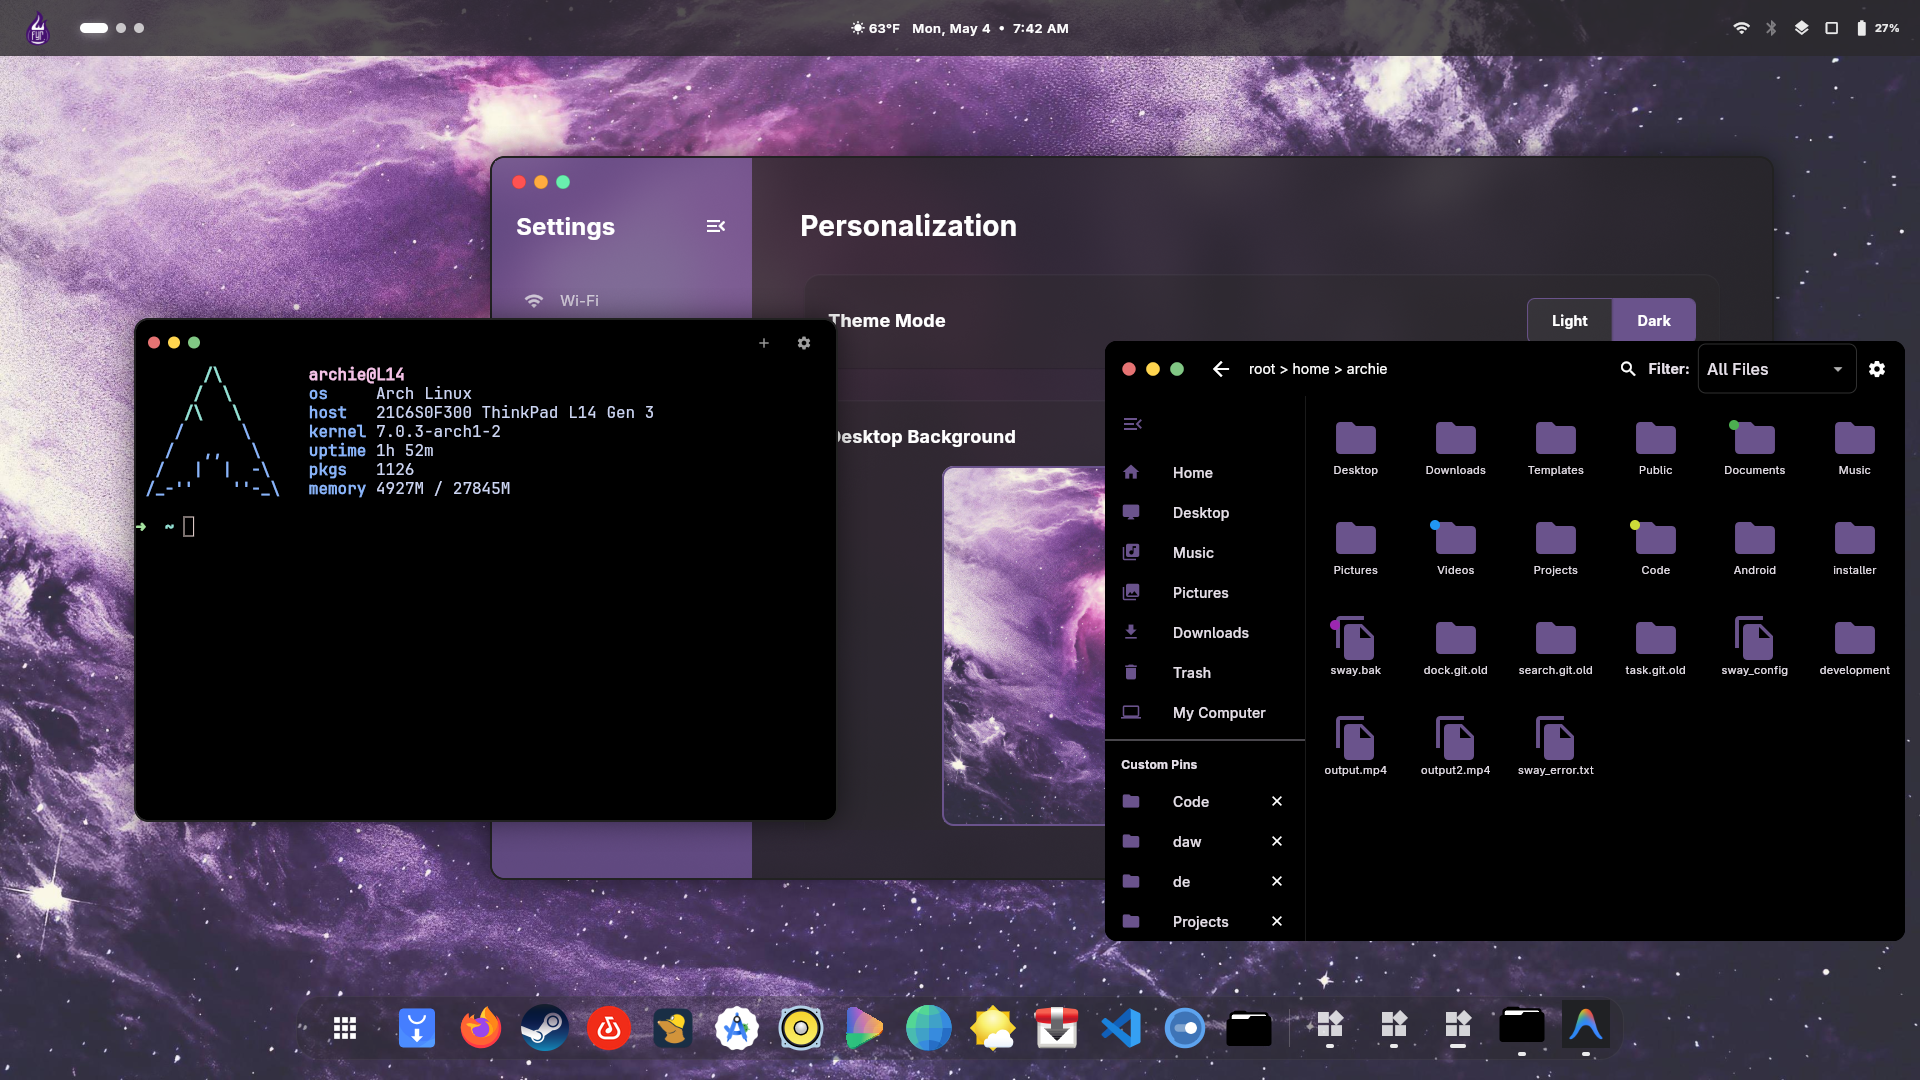
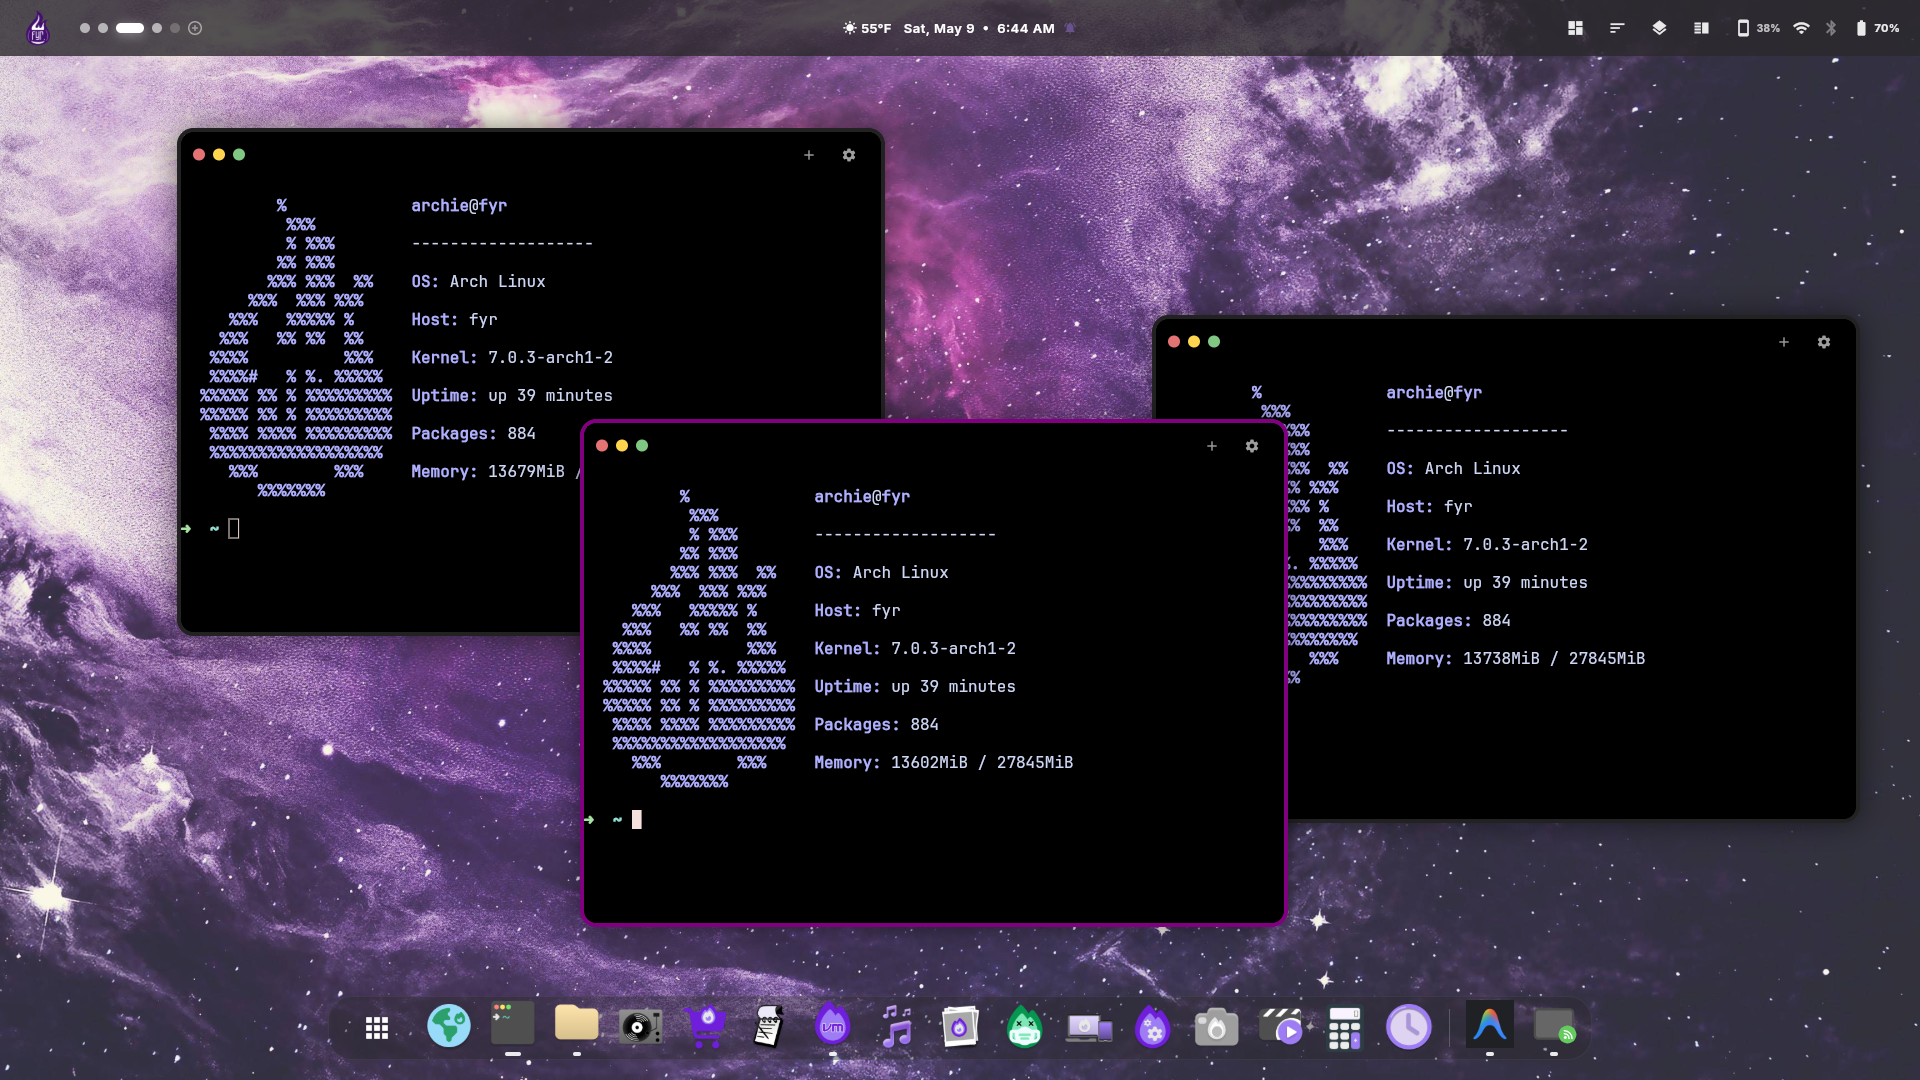
readme

diff --git a/README.md b/README.md
@@ -1,16 +1,6 @@
-# fyr (frick your RAM) Desktop Environment (fyrDE)
+# fyr (frick your RAM)
 
-![Idle](screenshots/idle.png)
-![Dark Mode](screenshots/dark%20mode.png)
-![Light Mode](screenshots/light%20mode.png)
-![Menu](screenshots/menu.png)
-![Quick Settings](screenshots/quick%20settings.png)
-![Calendar](screenshots/calender.png)
-![Search](screenshots/search.png)
-![Overview](screenshots/overview.png)
-![Floating](screenshots/floating.png)
-![Help](screenshots/help.png)
-![Emoji](screenshots/emoji.png)
+![Desktop](screenshots/desktop.png)
 
 This repository contains the core configuration and setup scripts for the fyr (frick your RAM) Desktop Environment (fyrDE).
 
@@ -18,40 +8,7 @@ This repository contains the core configuration and setup scripts for the fyr (f
 
 fyrDE uses a custom fork of Sway (SwayFX) to provide a Wayland compositor. On top of this compositor, it runs a suite of custom-built **Flutter applications** to provide the core desktop experience:
 
-### Core Desktop Components
-- **fyrTaskbar**: Top panel with system tray, clock, and quick settings.
-- **fyrDock**: macOS-like dock for launching apps and managing open windows.
-- **fyrSearch**: Spotlight-like application launcher and search tool.
-- **fyrOverview**: Exposé-like window and workspace overview.
-- **fyrWindowOverview**: Detailed window management and workspace visualization.
-- **fyrHelp**: A quick-access keyboard shortcut cheatsheet.
-- **fyrEmoji**: An integrated emoji picker.
 
-### System Applications
-- **Terminal** (`fyrTerm`): A custom Flutter terminal emulator.
-- **fyrFiles**: A modern, custom file manager.
-- **fyrStore**: A software center for managing applications.
-- **Settings** (`fyrSettings`): Control center for system configurations.
-- **fyrVM** (`fyrVirt`): Virtual Machine Manager.
-- **fyrAV**: Anti-Virus and system security suite.
-- **fyrConnect** (`fyrPhone`): Mobile device manager and integration tool.
-- **fyr_fetch**: A custom system information tool (like neofetch).
-
-### Productivity & Media
-- **Goose** (`fyrBrowser`): A CEF-based web browser designed for fyrDE.
-- **fyrCode**: Advanced code editor and IDE.
-- **fyrText**: Advanced text and document editor.
-- **Sound Booth** (`fyrDaw`): Digital Audio Workstation.
-- **Music** (`fyrMusic`): Music library and player.
-- **Watchbox** (`fyrVideo`): Media player for videos.
-- **Photos** (`fyrPhotos`): Photo library and viewer.
-- **Camera** (`fyrCamera`): Camera and video recording application.
-- **Calendar** (`fyrCalendar`): Modern calendar with event management.
-- **Clock** (`fyrClock`): Sleek clock with World Clock, Alarm, Stopwatch, and Timer.
-- **Calculator** (`fyrCalculator`): High-contrast, modern calculator.
-- **Journal** (`fyrJournal`): Personal journal and note-taking application.
-
----
 
 ## Installation
 
@@ -139,3 +96,68 @@ Start the desktop environment from your TTY:
 ```bash
 sway
 ```
+---
+
+### Core Desktop Components
+- **fyrTaskbar**: Top panel with system tray, clock, and quick settings.
+  ![Taskbar 1](screenshots/taskbar1.png)
+  ![Taskbar 2](screenshots/taskbar2.png)
+  ![Taskbar 3](screenshots/taskbar3.png)
+- **fyrDock**: macOS-like dock for launching apps and managing open windows.
+- **fyrSearch**: Spotlight-like application launcher and search tool.
+  ![Search](screenshots/search.png)
+- **fyrOverview**: Exposé-like window and workspace overview.
+  ![Overview](screenshots/overview.png)
+- **fyrHelp**: A quick-access keyboard shortcut cheatsheet.
+- **fyrEmoji**: An integrated emoji picker.
+
+### Window Management
+![Tiling](screenshots/tiling.png)
+![Floating](screenshots/floating.png)
+
+### System Applications
+- **Terminal** (`fyrTerm`): A custom Flutter terminal emulator.
+  ![Terminal](screenshots/terminal.png)
+- **fyrFiles**: A modern, custom file manager.
+  ![Files](screenshots/files.png)
+- **fyrStore**: A software center for managing applications.
+  ![Store](screenshots/store.png)
+- **Settings** (`fyrSettings`): Control center for system configurations.
+  ![Settings](screenshots/settings.png)
+- **fyrVM** (`fyrVirt`): Virtual Machine Manager.
+  ![Virtual Machine](screenshots/fyrvirt.png)
+- **fyrAV**: Anti-Virus and system security suite.
+  ![AV](screenshots/av.png)
+- **fyrConnect** (`fyrPhone`): Mobile device manager and integration tool.
+  ![Phone](screenshots/phone.png)
+- **fyr_fetch**: A custom system information tool (like neofetch).
+
+### Productivity & Media
+- **Goose** (`fyrBrowser`): A CEF-based web browser designed for fyrDE.
+  ![Goose](screenshots/goose.png)
+- **fyrCode**: Advanced code editor and IDE.
+  ![Code](screenshots/code.png)
+- **fyrText**: Advanced text and document editor.
+  ![Text](screenshots/text.png)
+- **Sound Booth** (`fyrDaw`): Digital Audio Workstation.
+  ![DAW](screenshots/daw.png)
+- **Music** (`fyrMusic`): Music library and player.
+  ![Music](screenshots/music.png)
+- **Watchbox** (`fyrVideo`): Media player for videos.
+  ![Video](screenshots/seinfeld.png)
+- **Photos** (`fyrPhotos`): Photo library and viewer.
+  ![Photos](screenshots/fyrphotos.png)
+- **Camera** (`fyrCamera`): Camera and video recording application.
+  ![Camera](screenshots/camera.png)
+- **Calendar** (`fyrCalendar`): Modern calendar with event management.
+  ![Calendar](screenshots/calendar.png)
+- **Clock** (`fyrClock`): Sleek clock with World Clock, Alarm, Stopwatch, and Timer.
+  ![Clock](screenshots/clock.png)
+- **Calculator** (`fyrCalculator`): High-contrast, modern calculator.
+  ![Calculator](screenshots/calc.png)
+- **Journal** (`fyrJournal`): Personal journal and note-taking application.
+  ![Journal](screenshots/journal.png)
+
+---
+
+